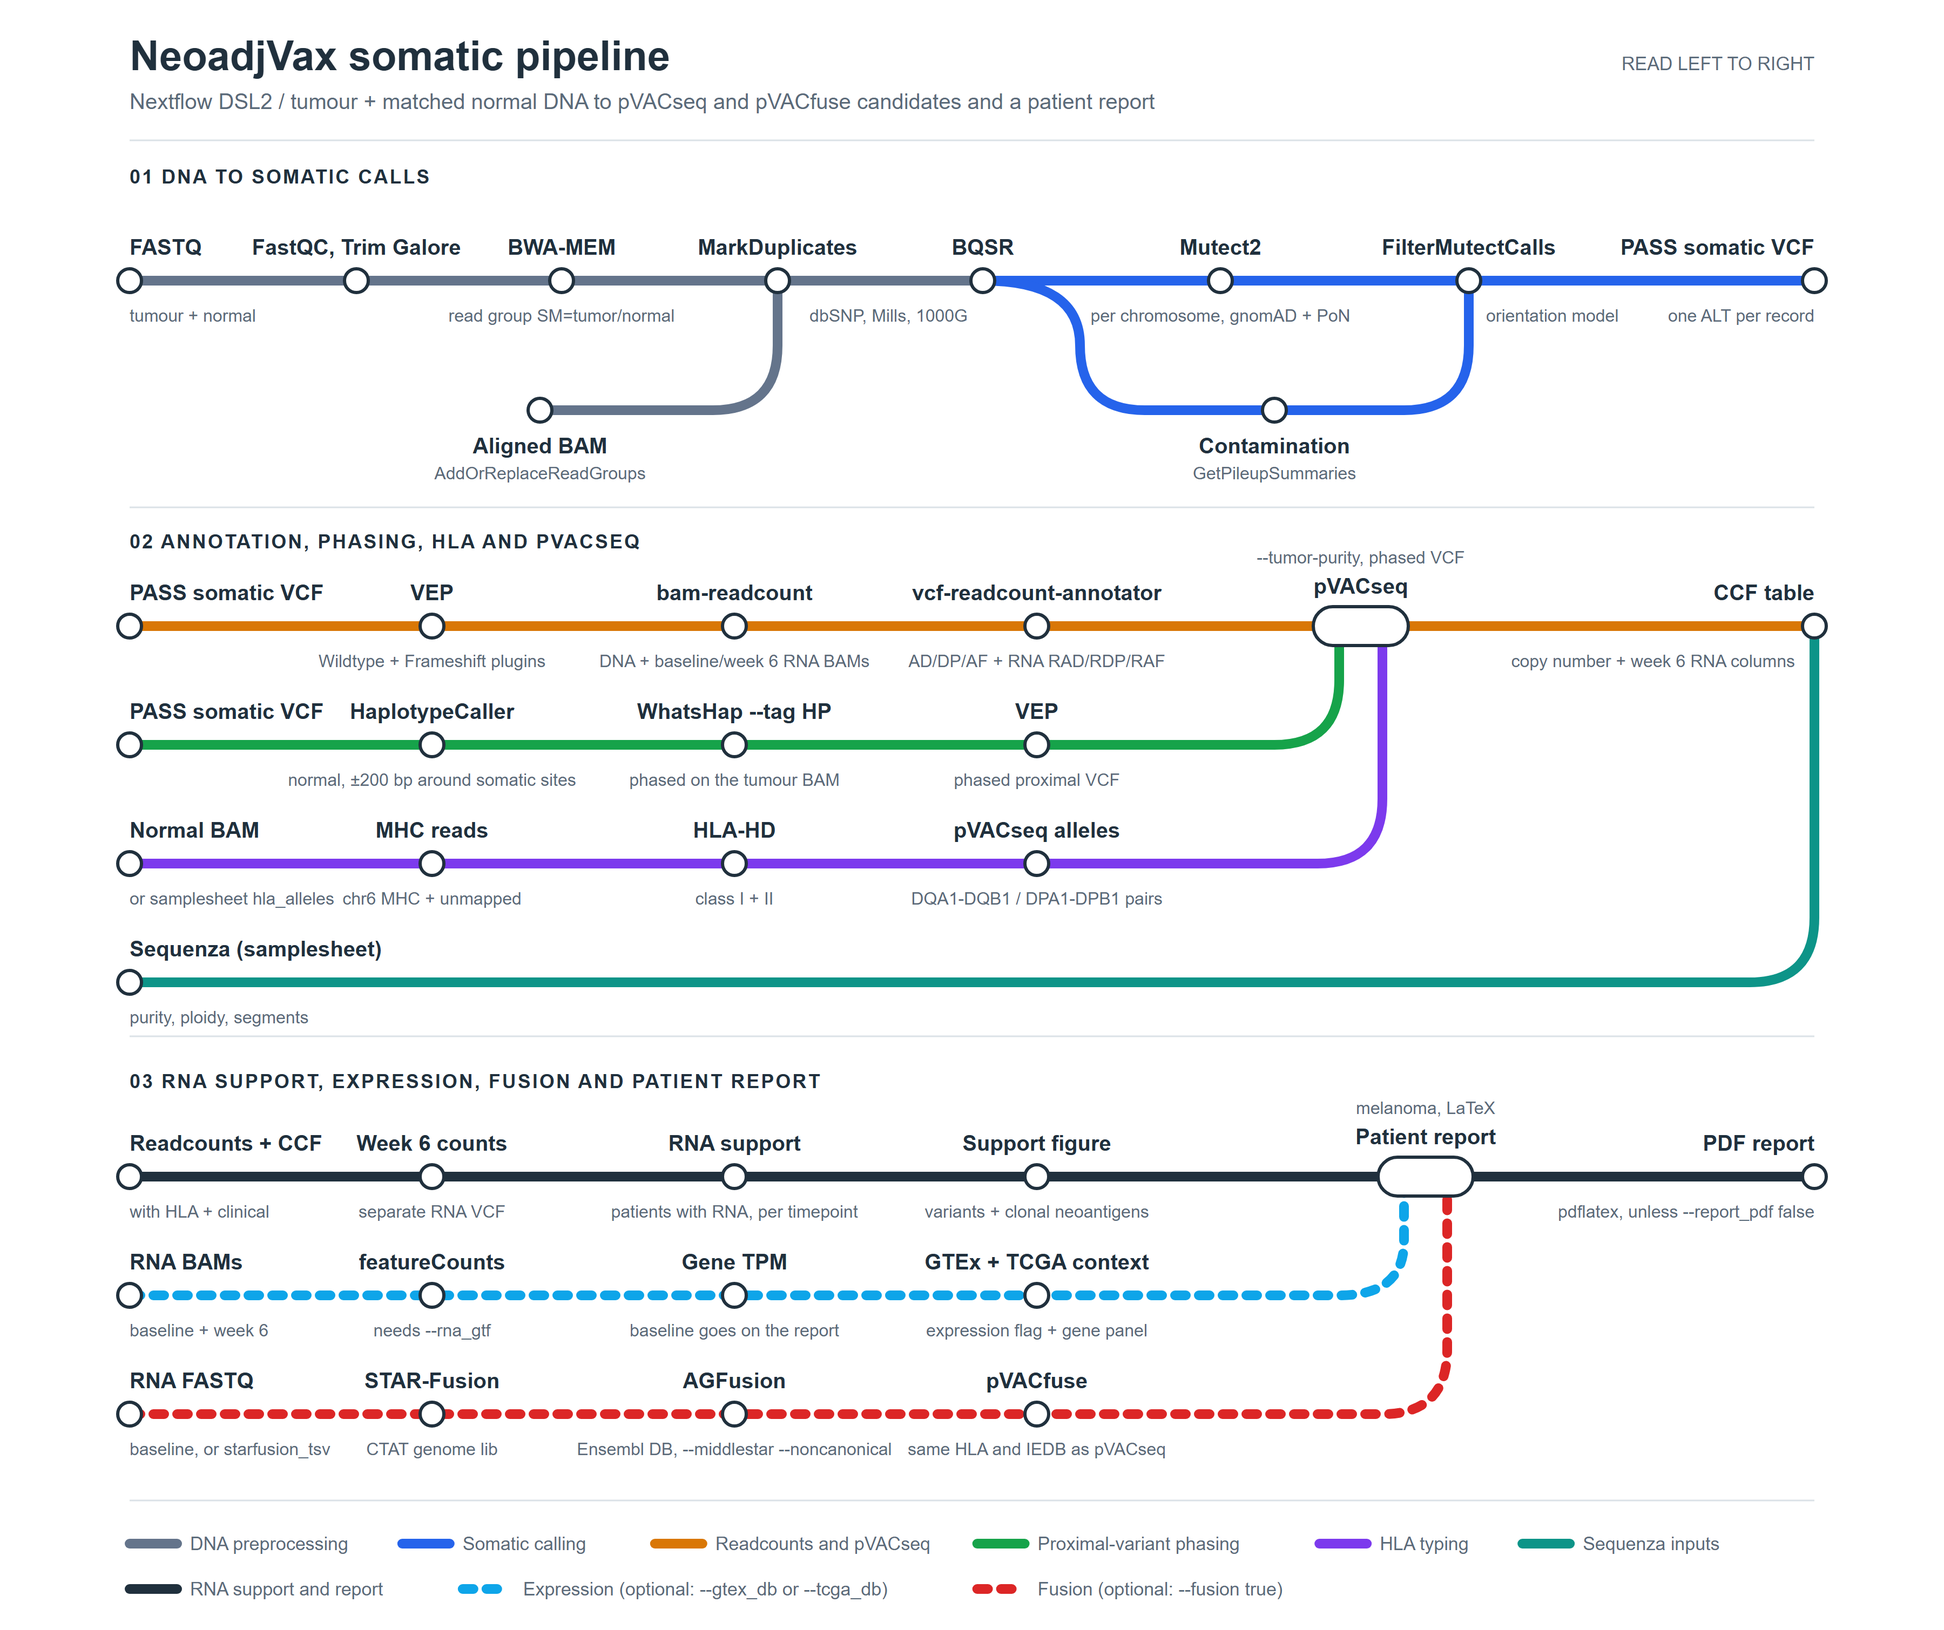
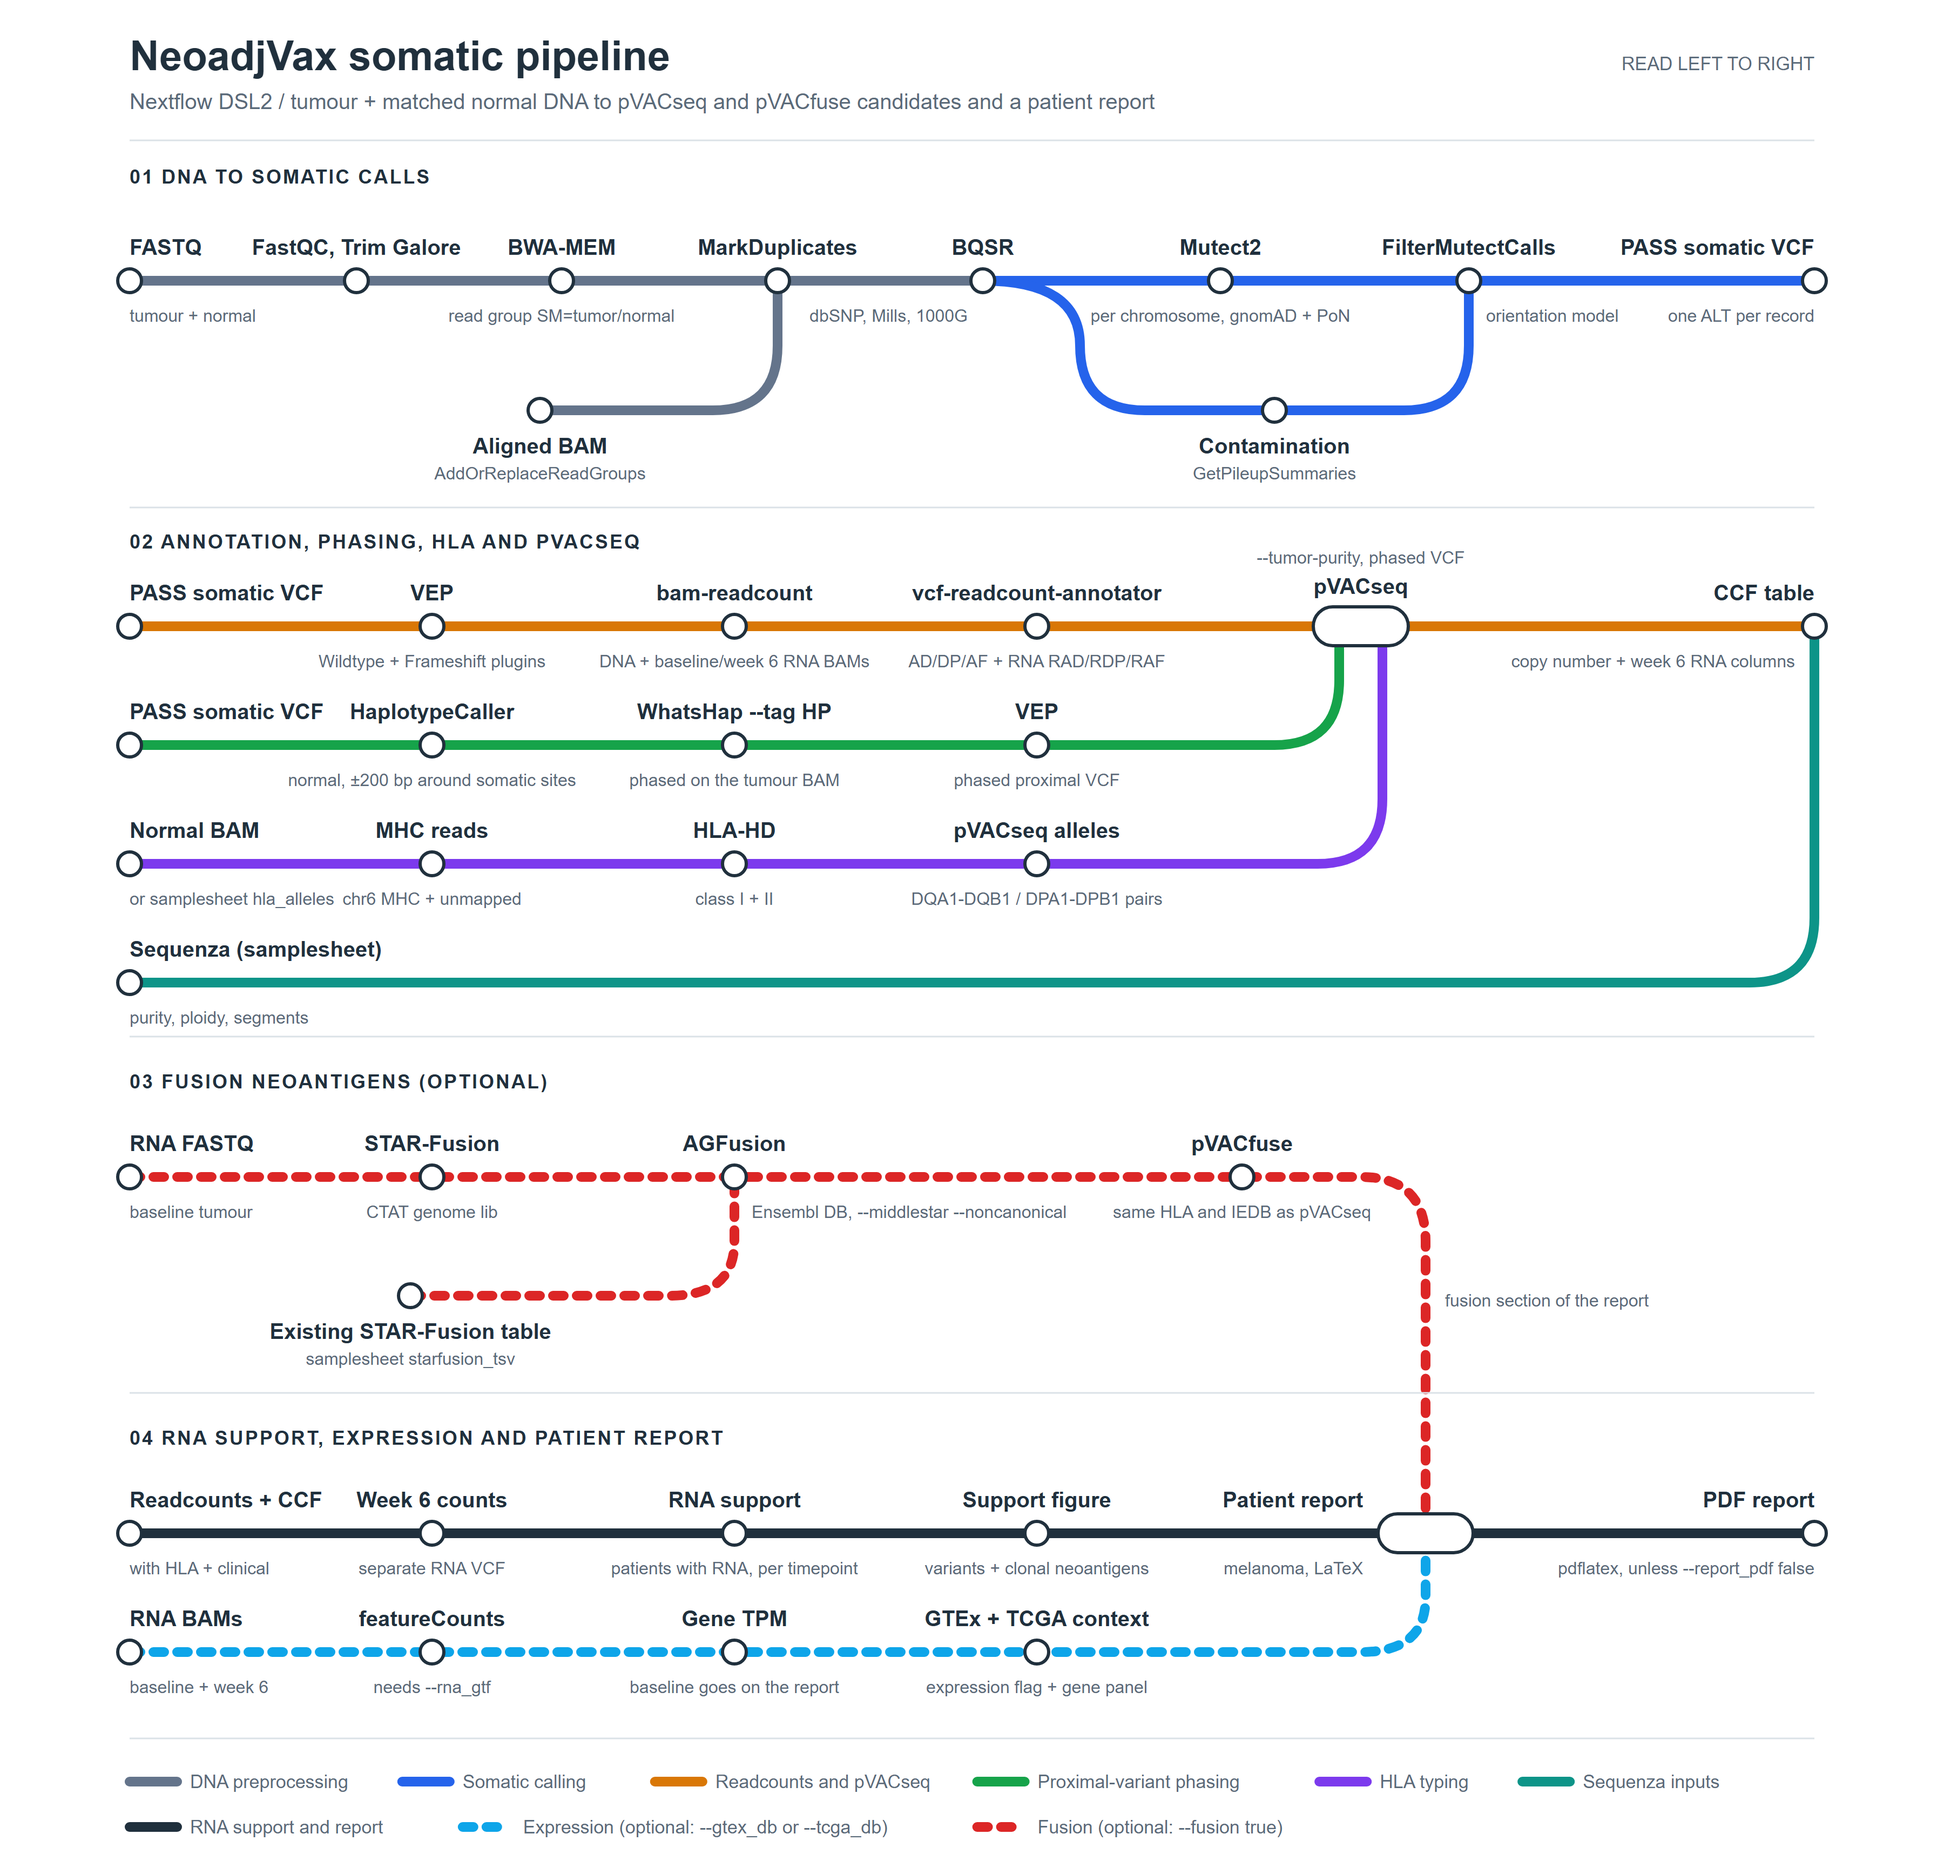
Give fusion its own map section and add a dark README render
Show an existing STAR-Fusion table joining at AGFusion, as in
workflows/fusion.nf, and pick the PNG by the viewer's colour scheme.

diff --git a/README.md b/README.md
@@ -4,7 +4,12 @@ Somatic neoantigen prediction for neoadjuvant melanoma vaccine work:
 tumour and matched-normal DNA in, ranked pVACseq candidates out.
 Nextflow DSL2, built to run on NCI Gadi (PBS Pro + Singularity).
 
-[![NeoadjVax somatic pipeline metro map](assets/neoadjvax-somatic-metromap.png)](assets/neoadjvax-somatic-metromap.svg)
+<a href="assets/neoadjvax-somatic-metromap.svg">
+  <picture>
+    <source media="(prefers-color-scheme: dark)" srcset="assets/neoadjvax-somatic-metromap-dark.png">
+    <img src="assets/neoadjvax-somatic-metromap.png" alt="NeoadjVax somatic pipeline metro map">
+  </picture>
+</a>
 
 ```
 tumour + normal DNA (FASTQ, or aligned BAM)
